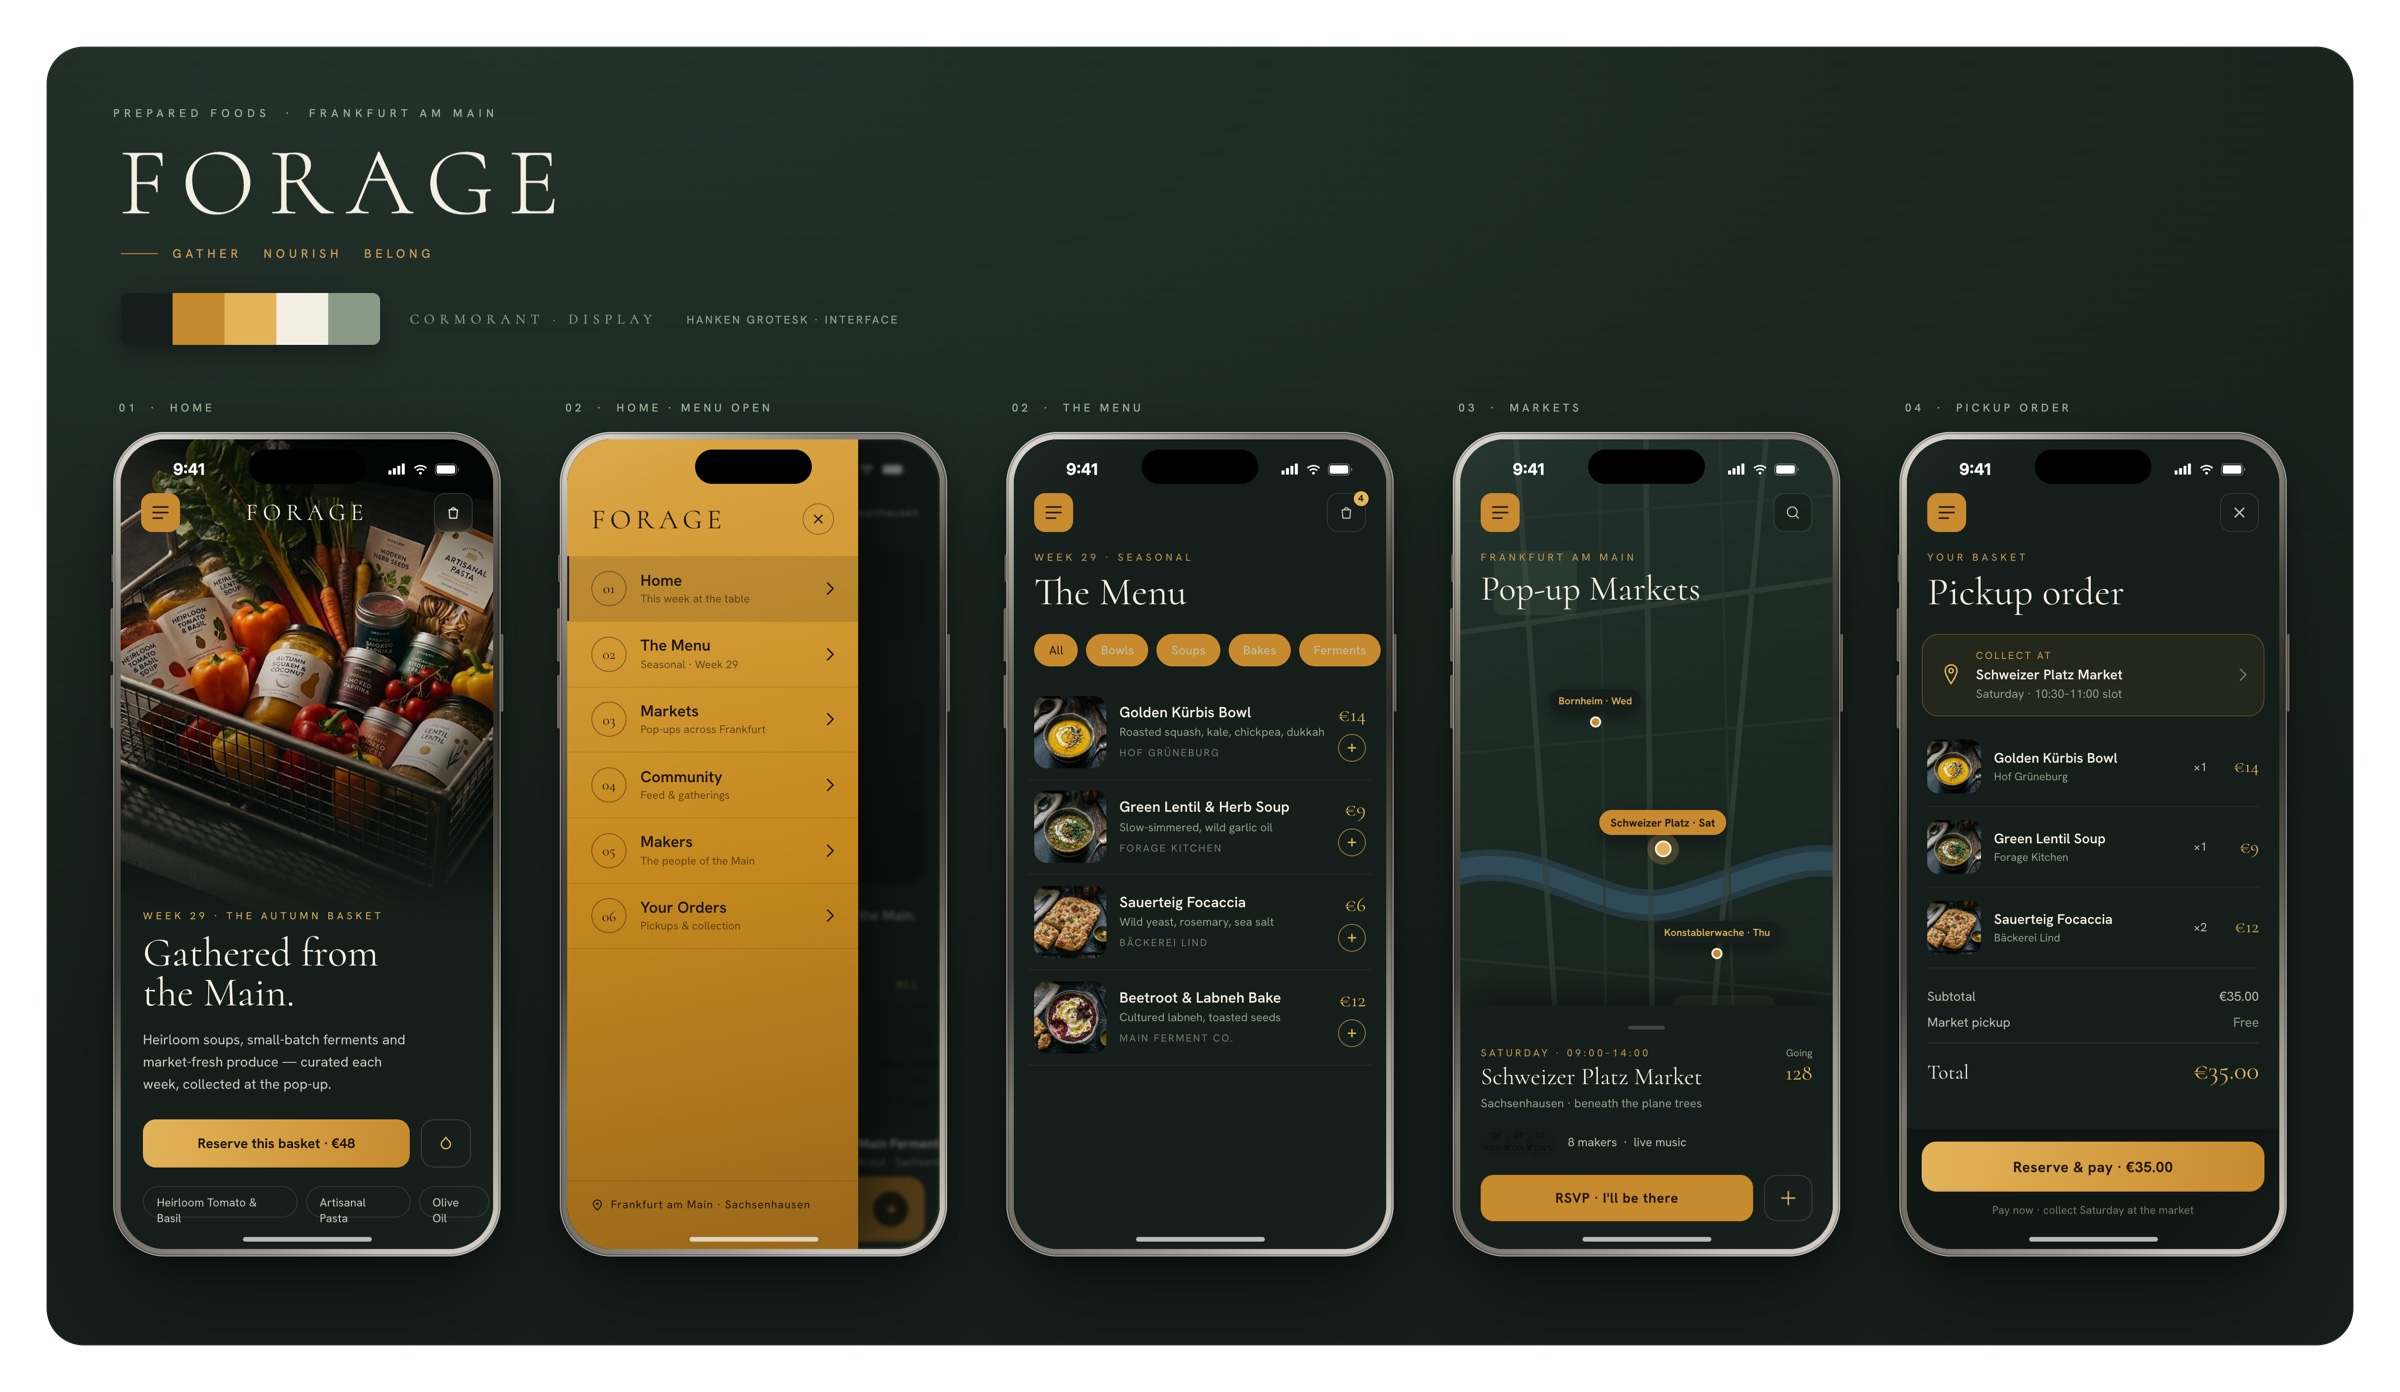
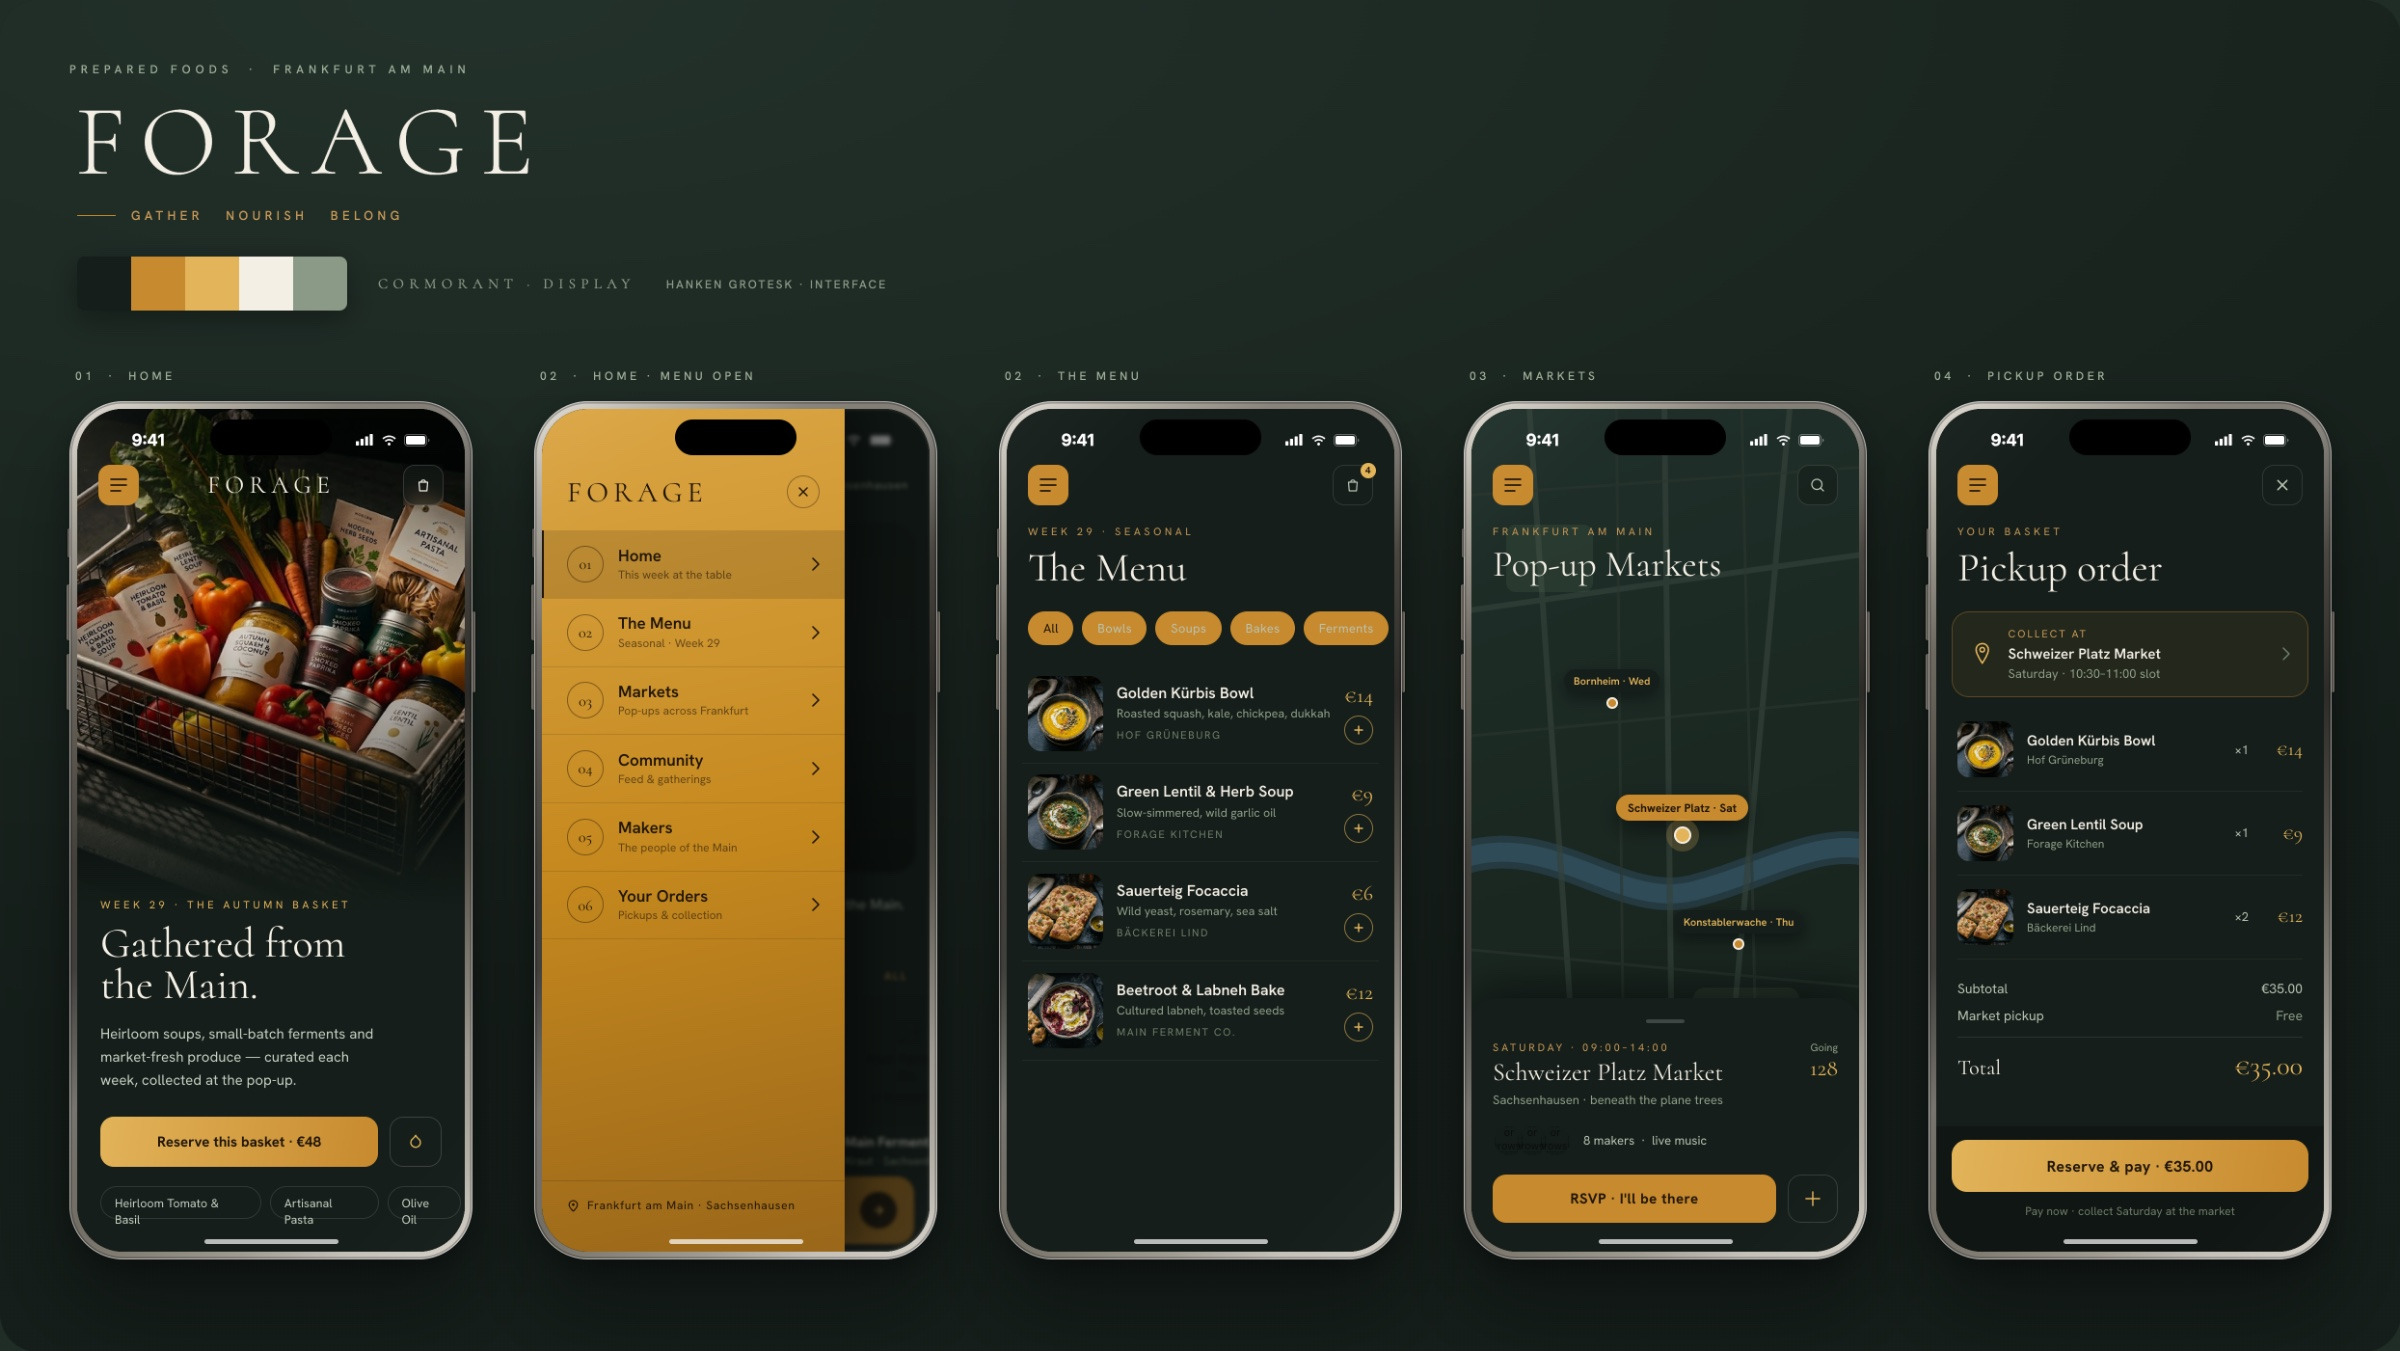
Forage: crop transparent margin + fill rounded corners with the brand green (removes white frame). Vibe Coding: white particle-studio tile thumbnail

Changed region(s): [[0.0, 0.0, 1.0, 1.0], [0.6562, 0.4974, 0.6875, 0.5285]]

diff --git a/index.html b/index.html
@@ -365,7 +365,7 @@
     <div class="thumbs">
       <a class="thumb" href="caricature.html"><img src="assets/img/caricature-thumb.png?v=2" alt="Caricature Studio — line-art character builder" /></a>
       <a class="thumb" href="forage.html"><img src="assets/img/forage.png?v=2" alt="Forage — prepared foods brand concept" /></a>
-      <a class="thumb" href="particle-text-studio.html"><img src="assets/img/particle-thumb.png" alt="Particle Text Studio — interactive canvas particle toy" /></a>
+      <a class="thumb" href="particle-text-studio.html"><img src="assets/img/particle-thumb.png?v=2" alt="Particle Text Studio — interactive canvas particle toy" /></a>
     </div>
   </div>
 </section>

diff --git a/forage.html b/forage.html
@@ -115,7 +115,7 @@
 </header>
 
 <section class="wrap">
-  <div class="bigimg"><img src="assets/img/forage-detail.jpg?v=5" alt="Forage — brand system and mobile app screens: home, menu, pop-up markets, and pickup order" /></div>
+  <div class="bigimg"><img src="assets/img/forage-detail.jpg?v=6" alt="Forage — brand system and mobile app screens: home, menu, pop-up markets, and pickup order" /></div>
 </section>
 
 <section class="contact-cta" id="contact">
